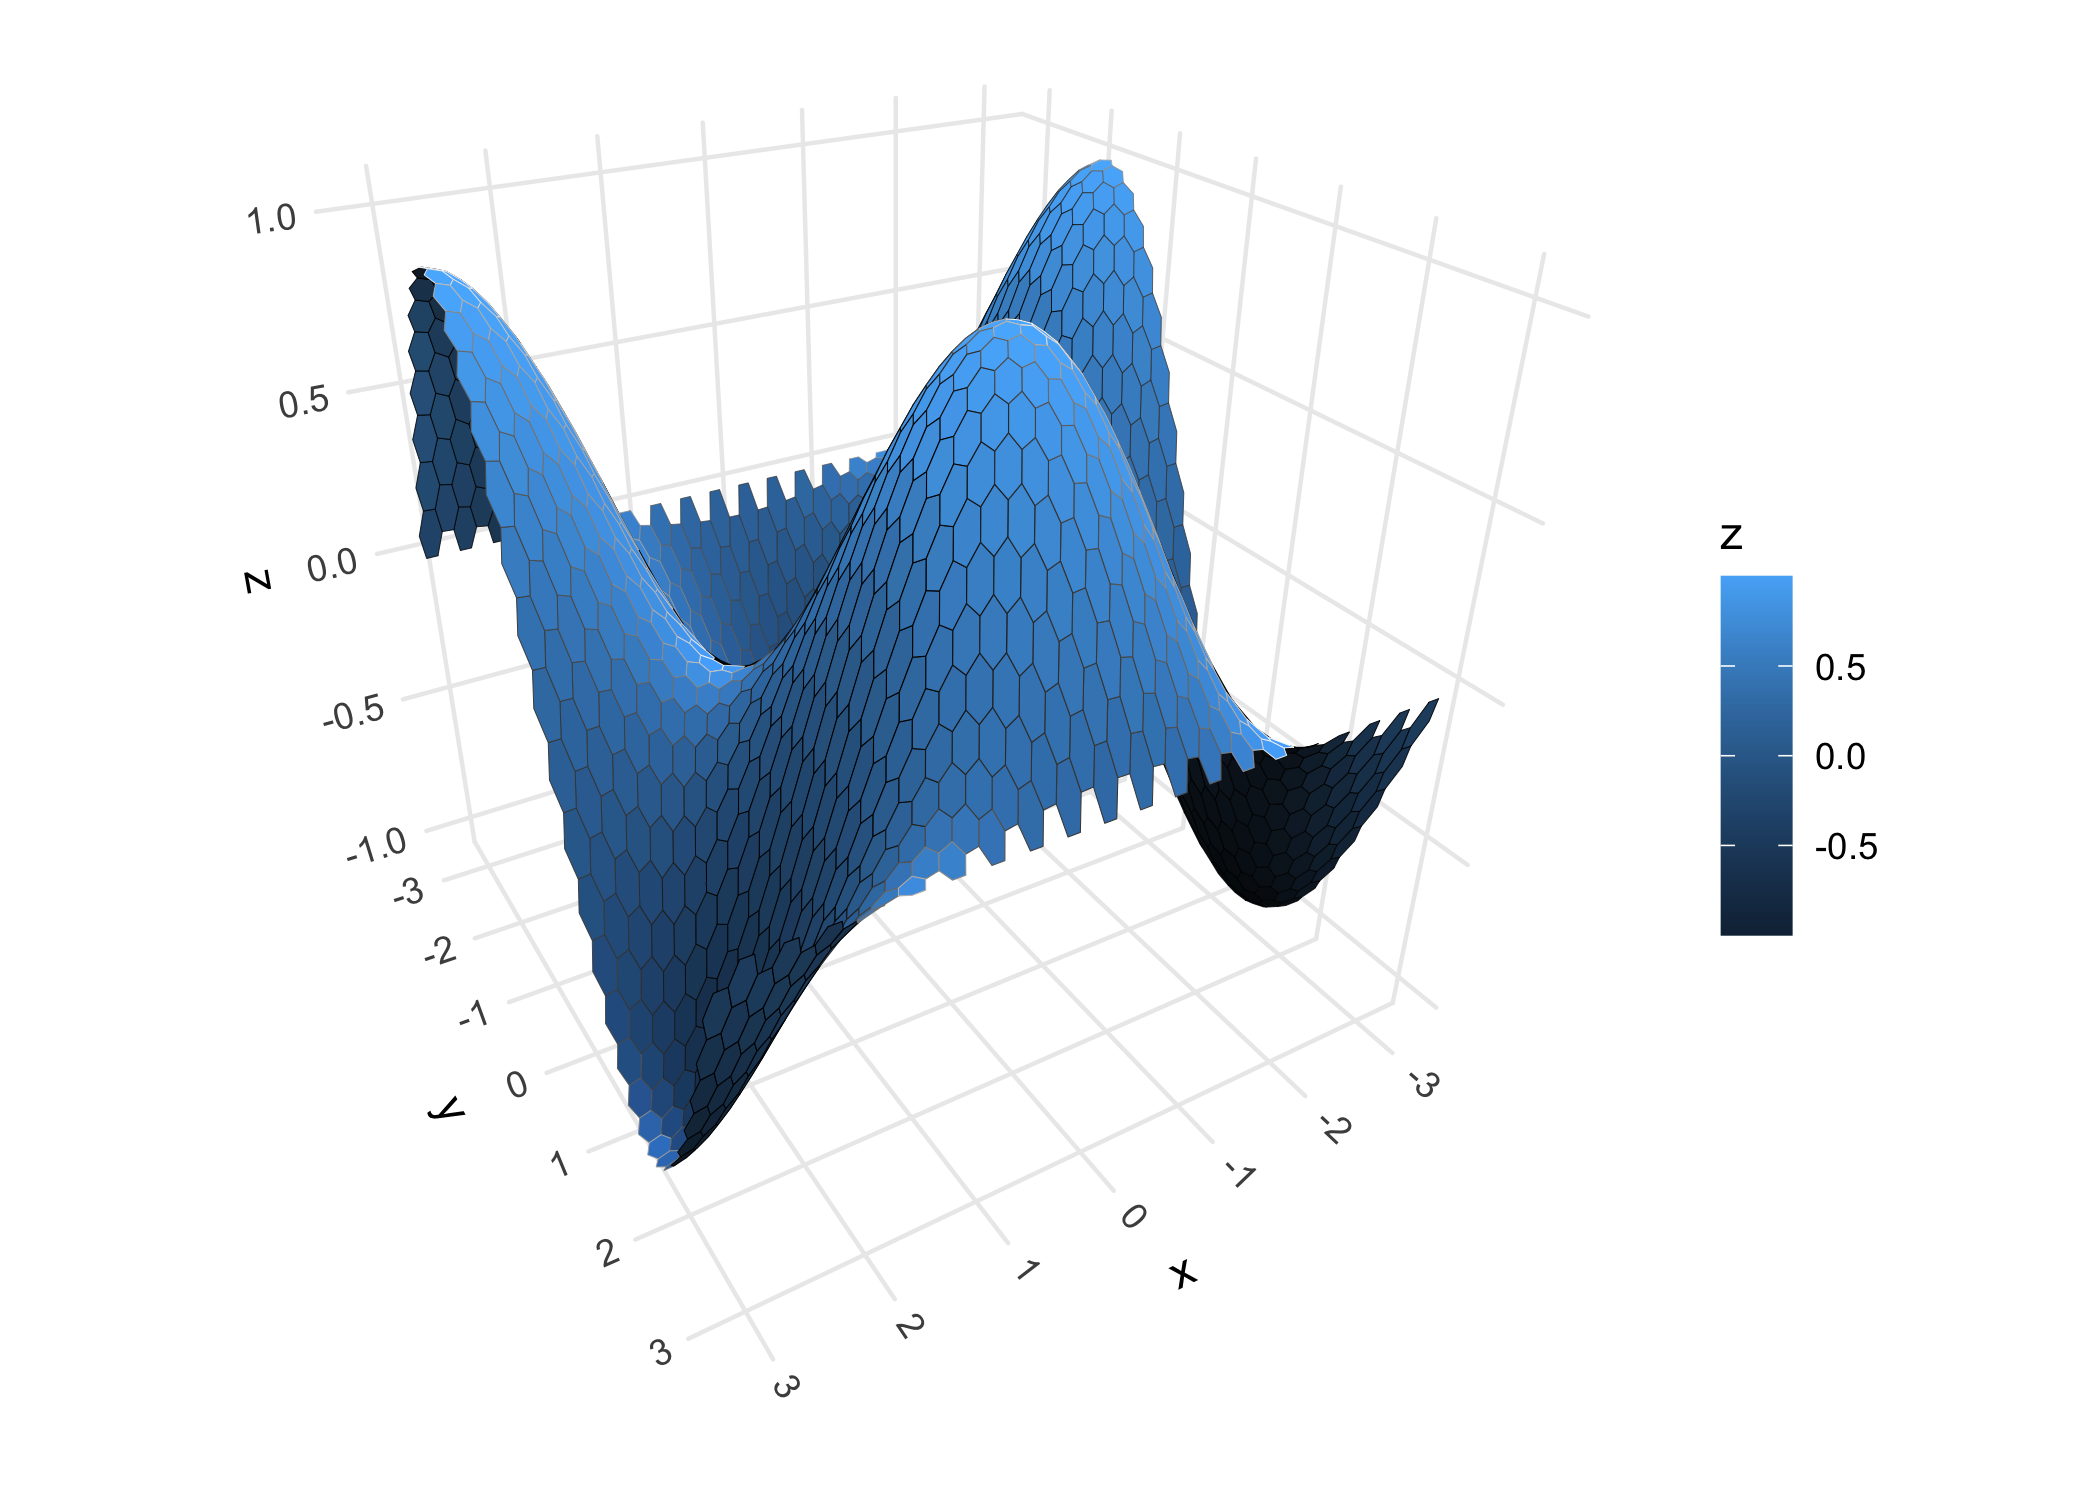
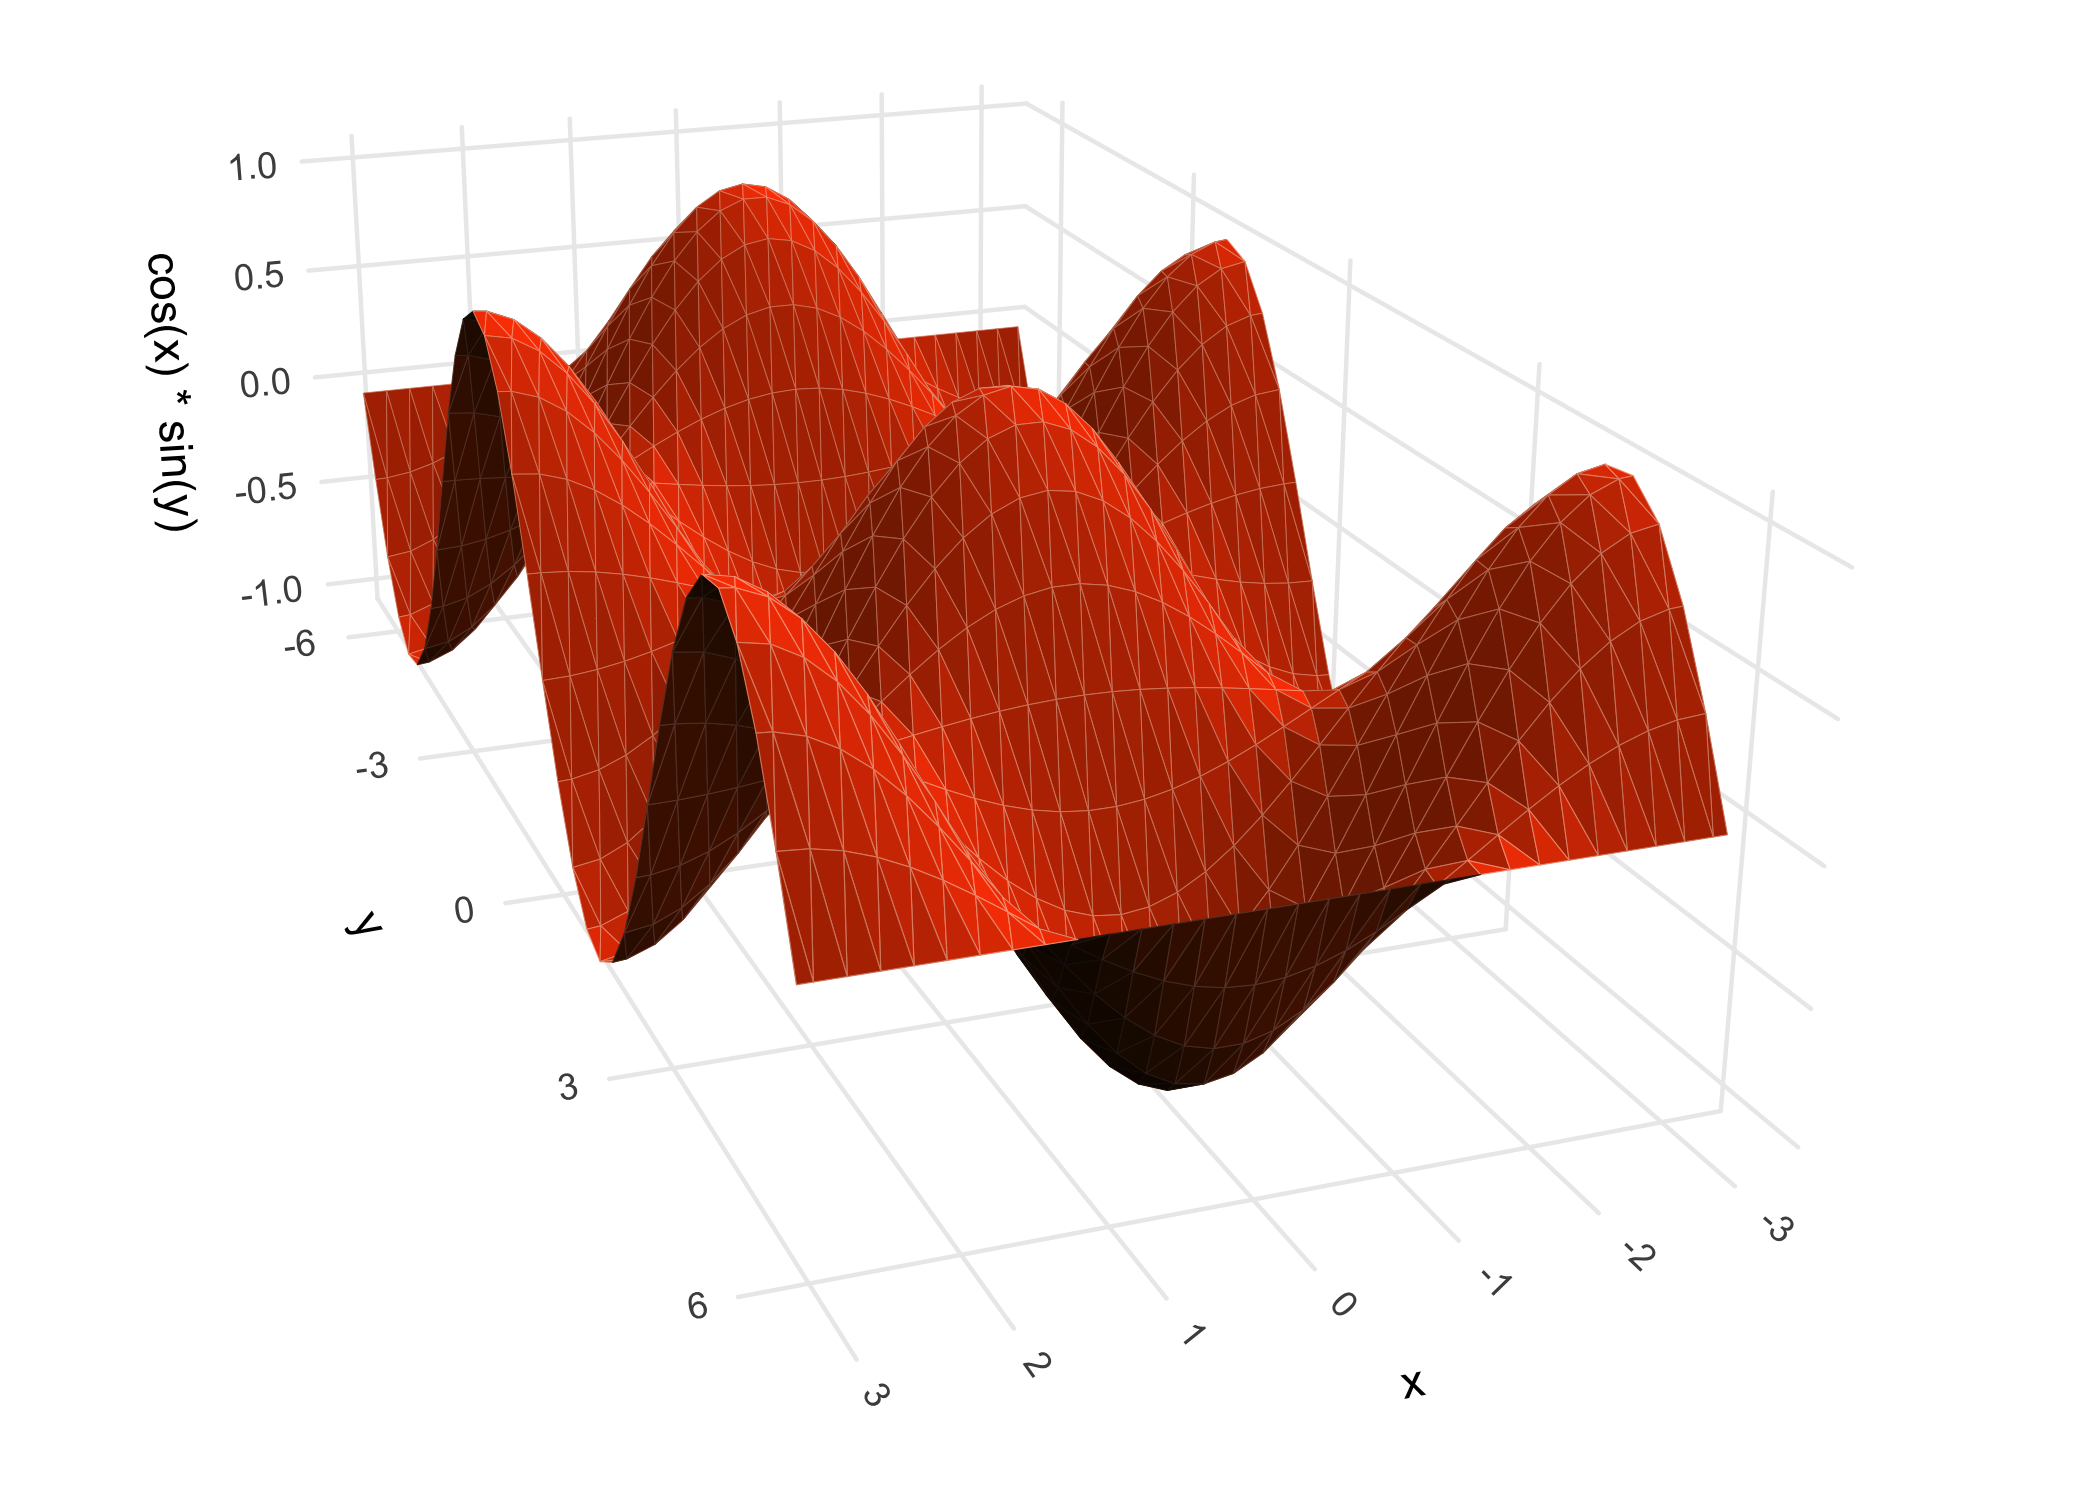
implement grid trimmming

diff --git a/README.md b/README.md
@@ -92,12 +92,13 @@ Example: a mathematical surface using `geom_function_3d()`:
 
 ``` r
 ggplot() +
-      geom_function_3d(
-            fun = function(x, y) cos(x) * sin(y),
-            xlim = c(-pi, pi), ylim = c(-pi, pi),
-            color = "black", grid = "hex"
-      ) +
-      coord_3d(yaw = 150) +
+      geom_function_3d(fun = function(x, y) cos(x) * sin(y),
+                       xlim = c(-pi, pi), ylim = c(-2*pi, 2*pi),
+                       fill = "#7a2100", color = "#b3725b", 
+                       grid = "tri") +
+      coord_3d(yaw = 160, roll = -70, 
+               scales = "fixed", ratio = c(1, 1, 2)) +
+      labs(z = "cos(x) * sin(y)") +
       theme_minimal()
 ```
 
@@ -115,7 +116,8 @@ d$z <- d$x + d$x^2 - d$y^2 + rnorm(50)
 ggplot(d, aes(x, y, z)) + 
       geom_smooth_3d(aes(fill = after_stat(level)),
                      method = "gam", formula = z ~ te(x, y),
-                     se = TRUE, level = 0.99, color = "black") +
+                     se = TRUE, level = 0.99, 
+                     color = "black", grid = "hex") +
       scale_fill_manual(values = c("red", "darkorchid4", "steelblue")) +
       coord_3d(light = NULL)
 ```
@@ -135,13 +137,13 @@ Example: a 3D bar chart using `geom_pillar_3d()`:
 # 3D pillar visualization
 ggplot(mountain[mountain$z > 90, ], 
        aes(x, y, z, zmin = 90, fill = z)) +
-    geom_pillar_3d(color = "black", linewidth = 0.1, width = .9,
-                   light = light(direction = c(1, -.25, 0), color = FALSE),
-                   sort_method = "pairwise") +
-    coord_3d() +
-    scale_fill_viridis_c(option = "B") + 
-    guides(fill = guide_colorbar_3d()) +
-    theme(panel.border = element_rect(color = "black", linewidth = .25))
+      geom_pillar_3d(color = "black", linewidth = 0.1, width = .9,
+                     light = light(direction = c(1, -.25, 0), color = FALSE),
+                     sort_method = "pairwise") +
+      coord_3d() +
+      scale_fill_viridis_c(option = "B") + 
+      guides(fill = guide_colorbar_3d()) +
+      theme(panel.border = element_rect(color = "black", linewidth = .25))
 ```
 
 <img src="man/figures/README-volumes-1.png" width="100%" />
@@ -184,7 +186,7 @@ ggplot(mpg, aes(x = displ, y = hwy, z = drv, fill = class)) +
 ## Lighting effects
 
 Lighting of 3D polygon layers is controlled by providing a `light()`
-specification to the layer or the coord.
+specification to the layer function or to `coord_3d()`.
 
 ``` r
 ggplot(sphere_points, aes(x, y, z)) +
@@ -214,8 +216,8 @@ ggplot(sphere_points, aes(x, y, z)) +
 ## Face projection
 
 3D and 2D layers can be mixed by using `position_on_face()` to project
-data onto cube faces. We saw this in the `geom_path_3d()` example above,
-but here’s another example that mixes different geoms, including
+data onto 2D cube faces. We saw this in the `geom_path_3d()` example
+above, but here’s another example that mixes different geoms, including
 natively-2D layers like `ggplot2::stat_density_2d()`:
 
 ``` r
@@ -226,14 +228,14 @@ ggplot(iris, aes(Sepal.Length, Sepal.Width, Petal.Length,
       
       # place 2D density plot on zmin face
       stat_density_2d(position = position_on_face(faces = "zmin", axes = c("x", "y")),
-            geom = "polygon", alpha = .1, linewidth = .25) +
+                      geom = "polygon", alpha = .1, linewidth = .25) +
       
       # flatten 3D hull layer onto ymax face
       geom_hull_3d(position = position_on_face("ymax"), alpha = .5) +
       
       # flatten 3D voxels onto xmax face to create 2D bins
       geom_voxel_3d(aes(round(Sepal.Length), round(Sepal.Width), round(Petal.Length)),
-            position = position_on_face("xmax"), alpha = .15, light = NULL) +
+                    position = position_on_face("xmax"), alpha = .15, light = NULL) +
       
       # 3D scatter plot (added last so it renders in front)
       geom_point_3d( shape = 21, color = "black", stroke = .25)
